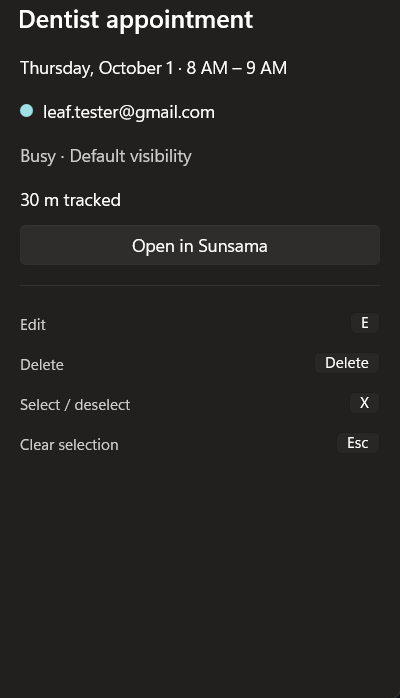
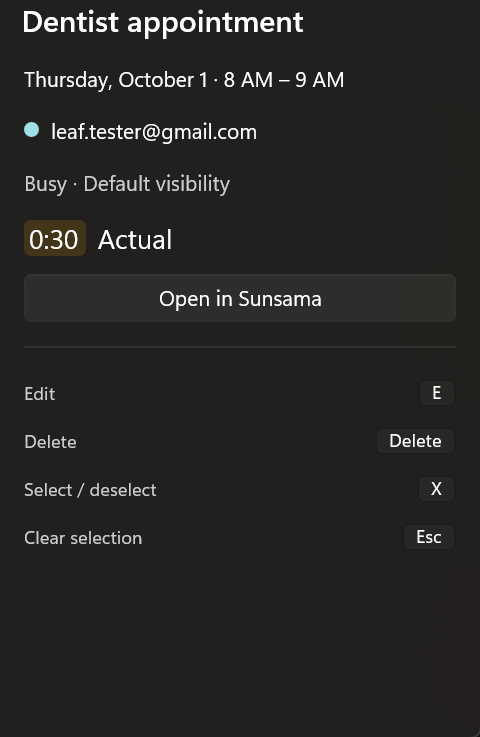
docs(site): the Sunsama details screenshots show the Planned and Actual badges

diff --git a/site/calendar/sunsama.md b/site/calendar/sunsama.md
@@ -53,7 +53,7 @@ Sunsama blocks can't be moved, resized, copied, or deleted. Right-click one for 
 
 A Sunsama task that's already an event on one of your Google calendars (one you timeboxed on Google, or imported from it) doesn't get a second block. Instead, that event shows the task's tracked time: the stripes on its block, and its tracked time (**Actual**) and **Open in Sunsama** in its details.
 
-![The details panel for a Google event with its Sunsama tracked time](../../assets/images/sunsama-matched.png)
+![The details panel for a Google event with its Sunsama actual time on a badge](../../assets/images/sunsama-matched.png)
 
 ## Signing out
 
